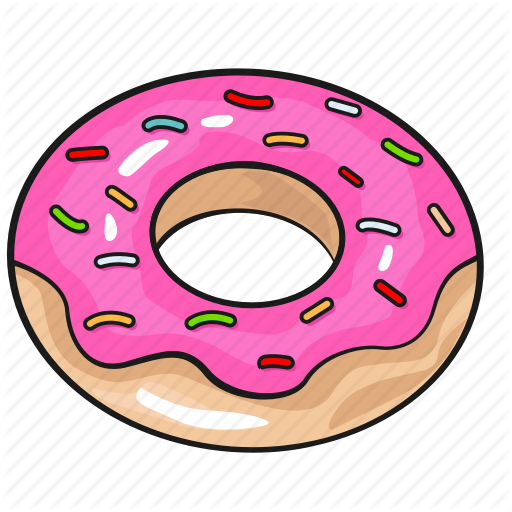
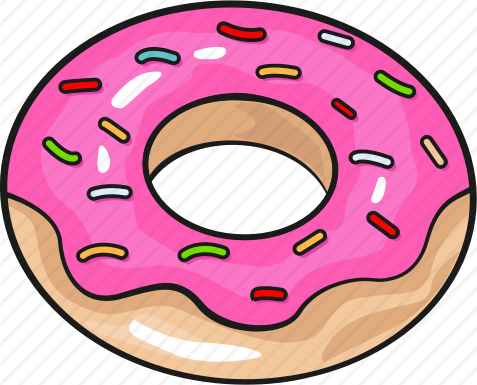
Donut now has screen boundries

diff --git a/SEPRKroy/core/src/com/mozarellabytes/kroy/KroyMain.java b/SEPRKroy/core/src/com/mozarellabytes/kroy/KroyMain.java
@@ -3,10 +3,13 @@ package com.mozarellabytes.kroy;
 import com.badlogic.gdx.ApplicationAdapter;
 import com.badlogic.gdx.Gdx;
 import com.badlogic.gdx.Input;
+import com.badlogic.gdx.audio.Sound;
+import com.badlogic.gdx.graphics.Color;
 import com.badlogic.gdx.graphics.GL20;
 import com.badlogic.gdx.graphics.OrthographicCamera;
 import com.badlogic.gdx.graphics.Texture;
 import com.badlogic.gdx.graphics.g2d.SpriteBatch;
+import com.badlogic.gdx.graphics.glutils.ShapeRenderer;
 import com.badlogic.gdx.math.Rectangle;
 import com.badlogic.gdx.math.Vector3;
 
@@ -14,58 +17,91 @@ public class KroyMain extends ApplicationAdapter {
 
 	// The SpriteBatch is a special class that is used to draw 2D images
 	private SpriteBatch batch;
-	private Texture img;
+	private Texture logo;
 	private Texture donutImage;
 	private OrthographicCamera camera;
-
+	private Sound errorSound;
 	private Rectangle donut;
+	private ShapeRenderer sr;
 
 	// Method called once when the application is created.
 	@Override
 	public void create () {
 		camera = new OrthographicCamera();
 		batch = new SpriteBatch();
-		img = new Texture("logo.png");
+		logo = new Texture("logo.png");
 		donutImage = new Texture("donut.png");
+		errorSound = Gdx.audio.newSound(Gdx.files.internal("error.mp3"));
 
-		camera.setToOrtho(false, Gdx.graphics.getDisplayMode().width/2, Gdx.graphics.getDisplayMode().height/2);
+		Gdx.graphics.setWindowedMode(Gdx.graphics.getDisplayMode().width, Gdx.graphics.getDisplayMode().height);
+
+		camera.setToOrtho(false, Gdx.graphics.getDisplayMode().width, Gdx.graphics.getDisplayMode().height);
 
 		donut = new Rectangle();
-		donut.x = Gdx.graphics.getDisplayMode().width/2 - donutImage.getWidth()/2;
-		donut.y = 20;
-		donut.width = 32;
-		donut.height = 32;
+		donut.x = Gdx.graphics.getDisplayMode().width/2 - donutImage.getWidth()/4;
+		donut.y = 200;
+		donut.width = donutImage.getWidth()/2;
+		donut.height = donutImage.getHeight()/2;
 
-		Gdx.graphics.setWindowedMode(Gdx.graphics.getDisplayMode().width/2, Gdx.graphics.getDisplayMode().height/2);
-		Gdx.app.log("Log", "this is a log message");
 	}
 
 	// Method called by the game loop from the application every time rendering should be performed. Game logic updates are usually also performed in this method.
 	@Override
 	public void render () {
+
 		Gdx.gl.glClearColor(51/255f, 34/255f, 99/255f, 1);
 		Gdx.gl.glClear(GL20.GL_COLOR_BUFFER_BIT);
 
 		camera.update();
 
+		// movement input for donut
+		if(Gdx.input.isKeyPressed(Input.Keys.A)) {
+			Gdx.app.log("Location", String.valueOf(donut.x));
+			if (donut.x > 0) {
+				donut.x -= 200 * Gdx.graphics.getDeltaTime();
+			} else {
+				errorSound.play();
+			}
+		}
+
+		if(Gdx.input.isKeyPressed(Input.Keys.D)) {
+			Gdx.app.log("Location", String.valueOf(donut.x));
+			if (donut.x + donut.width < camera.viewportWidth) {
+				donut.x += 200 * Gdx.graphics.getDeltaTime();
+			} else {
+				errorSound.play();
+			}
+		}
+
+		if(Gdx.input.isKeyPressed(Input.Keys.W)) {
+			Gdx.app.log("Location", String.valueOf(donut.y));
+			if (donut.y + donut.height < camera.viewportHeight) {
+				donut.y += 200 * Gdx.graphics.getDeltaTime();
+			} else {
+				errorSound.play();
+			}
+		}
+
+		if(Gdx.input.isKeyPressed(Input.Keys.S)) {
+			Gdx.app.log("Location", String.valueOf(donut.y));
+			if (donut.y > 0) {
+				donut.y -= 200 * Gdx.graphics.getDeltaTime();
+			} else {
+				errorSound.play();
+			}
+		}
+
 		batch.setProjectionMatrix(camera.combined);
 		batch.begin();
-		batch.draw(img, Gdx.graphics.getWidth()/2 - img.getWidth()/2,Gdx.graphics.getHeight()/2 - img.getHeight()/2);
-		batch.draw(donutImage, donut.x, donut.y, camera.viewportWidth/10, camera.viewportHeight/10);
+		batch.draw(logo, camera.viewportWidth/2 - logo.getWidth()/2, (float) (camera.viewportHeight*0.9 - logo.getHeight()*0.9), logo.getWidth(), logo.getHeight());
+		batch.draw(donutImage, donut.x, donut.y, donut.width, donut.height);
 		batch.end();
-
-		// movement input for donut
-		if(Gdx.input.isKeyPressed(Input.Keys.LEFT)) donut.x -= 200 * Gdx.graphics.getDeltaTime();
-		if(Gdx.input.isKeyPressed(Input.Keys.RIGHT)) donut.x += 200 * Gdx.graphics.getDeltaTime();
-		if(Gdx.input.isKeyPressed(Input.Keys.UP)) donut.y += 200 * Gdx.graphics.getDeltaTime();
-		if(Gdx.input.isKeyPressed(Input.Keys.DOWN)) donut.y -= 200 * Gdx.graphics.getDeltaTime();
-
 	}
 
 	// Called when the application is destroyed. It is preceded by a call to pause().
 	@Override
 	public void dispose () {
 		batch.dispose();
-		img.dispose();
+		logo.dispose();
 	}
 }

diff --git a/SEPRKroy/desktop/src/com/mozarellabytes/kroy/desktop/DesktopLauncher.java b/SEPRKroy/desktop/src/com/mozarellabytes/kroy/desktop/DesktopLauncher.java
@@ -12,6 +12,7 @@ public class DesktopLauncher {
 		config.resizable = false;
 		config.title = "Kroy";
 		config.vSyncEnabled = true;
+//		config.fullscreen = true;
 		new LwjglApplication(new KroyMain(), config);
 	}
 }
